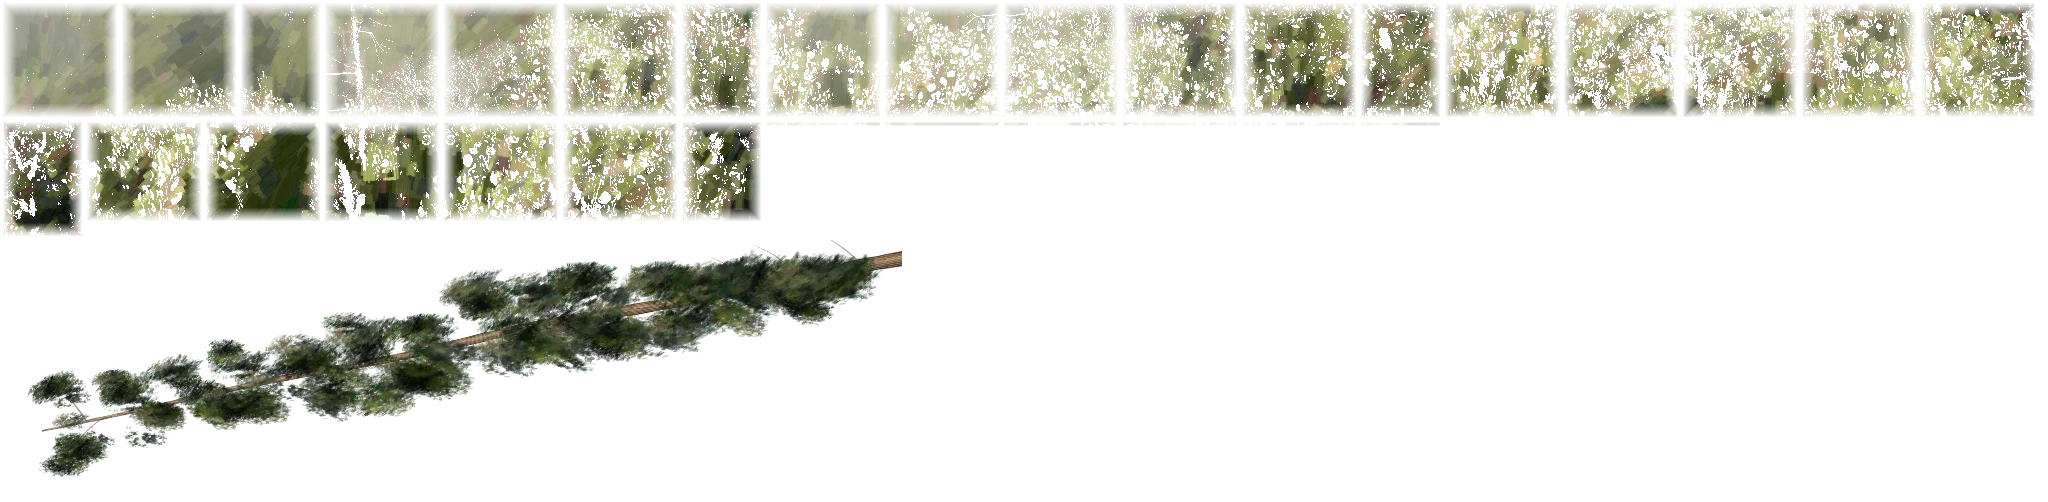
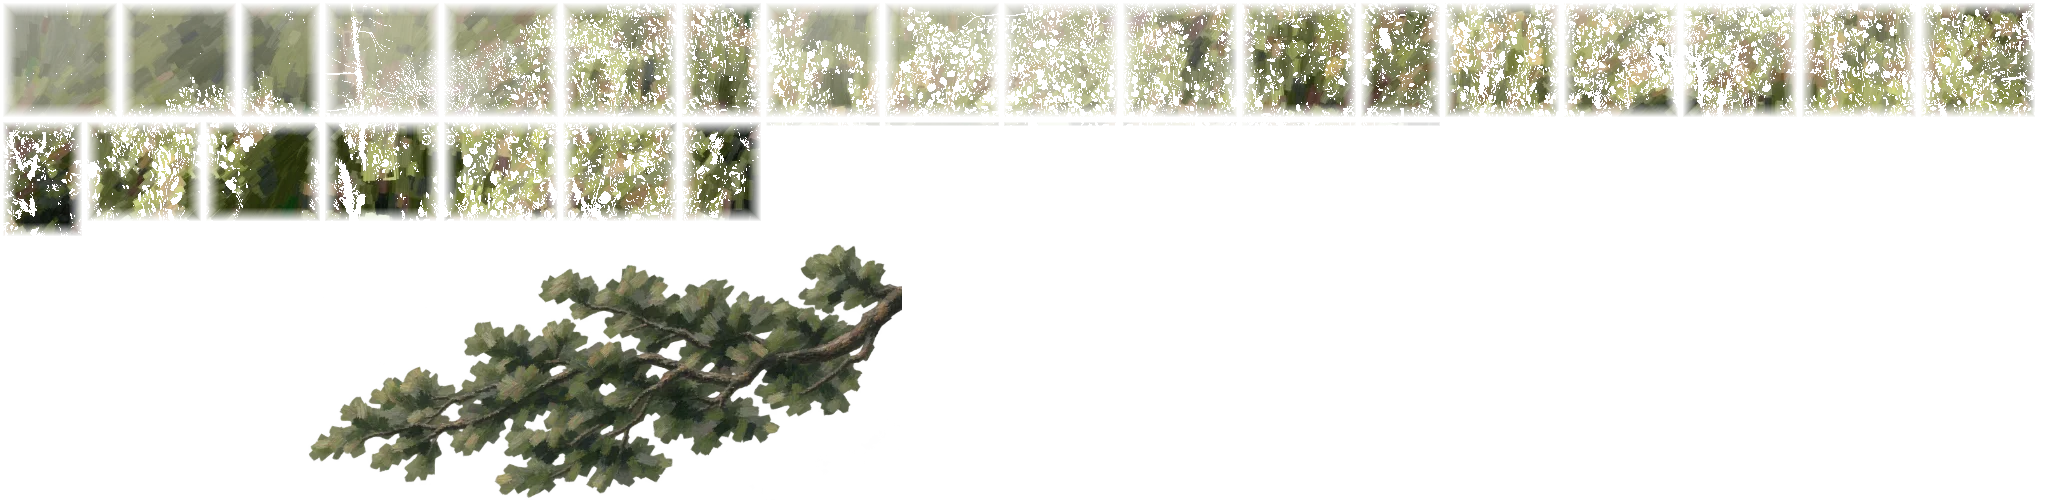
Replace the synthetic upper limb with a coherent painted pine bough

Changed region(s): [[0.0, 0.4781, 0.4375, 0.9861]]

diff --git a/scene.js b/scene.js
@@ -198,7 +198,7 @@
     c.restore();
   }
   const canopy=[],looseLeaves=[],leafSprites=[];
-  let foreground,forestShade;
+  let foreground,forestShade,upperBough;
   function foregroundDepth(x,y){
     const smooth=(a,b,v)=>{const t=clamp((v-a)/(b-a),0,1);return t*t*(3-2*t);};
     const pine=(1-smooth(125,285,x))*smooth(110,300,y);
@@ -270,92 +270,13 @@
   }
   function cacheUpperBranch(foregroundContext){
     const sprite=document.createElement('canvas');sprite.width=900;sprite.height=260;
-    const c=sprite.getContext('2d');seed=8623;
-    // Lift bristled foliage from the painted pine so the new bough shares its pigment and edges.
-    const tufts=[[35,330],[75,390],[25,510],[100,560],[50,620],[80,700]].map(([sx,sy])=>{
-      const tuft=document.createElement('canvas');tuft.width=80;tuft.height=64;
-      const tc=tuft.getContext('2d'),image=p.getImageData(sx,sy,80,64),front=foregroundContext.getImageData(sx,sy,80,64);
-      for(let y=0;y<64;y++)for(let x=0;x<80;x++){
-        const at=(y*80+x)*4,source=((sy+y)*W+sx+x)*4;
-        const r=pixels[source],g=pixels[source+1],b=pixels[source+2];
-        const edge=clamp(1-((x-40)/40)**2-((y-32)/32)**2,0,1)**1.5;
-        const alpha=front.data[at+3]/255;
-        for(let k=0;k<3;k++)image.data[at+k]=image.data[at+k]*(1-alpha)+front.data[at+k]*alpha;
-        image.data[at+3]=Math.round(255*edge*(g>b*.96&&g>r*.88?1:0));
-      }
-      for(let mark=0;mark<2300;mark++){
-        const x=range(4,76),y=range(4,60),at=(Math.floor(y)*80+Math.floor(x))*4;
-        if(rand()>image.data[at+3]/255)continue;
-        const col={r:image.data[at],g:image.data[at+1],b:image.data[at+2]};
-        stroke(tc,x,y,range(2,8),range(.7,2),col,range(-1.7,-.4),.75,2);
-      }
-      return tuft;
-    });
-    const twig=(x,y,endX,endY,width)=>{
-      const angle=Math.atan2(endY-y,endX-x),nx=-Math.sin(angle),ny=Math.cos(angle);
-      const point=t=>{
-        const radius=width*.5*(.12+.88*(1-t)**.85);
-        const bend=-18*t*(1-t)+Math.sin(t*19+x)*width*.12*Math.sin(t*Math.PI);
-        return {x:x+(endX-x)*t,y:y+(endY-y)*t+bend,r:radius};
-      };
-      c.save();c.beginPath();
-      for(const side of [-1,1])for(let i=0;i<=80;i++){
-        const t=side<0?i/80:1-i/80,p=point(t);
-        const edge=p.r*(1+Math.sin(t*173+x)*.09+Math.sin(t*61)*.05);
-        const px=p.x+nx*edge*side,py=p.y+ny*edge*side;
-        if(side<0&&i===0)c.moveTo(px,py);else c.lineTo(px,py);
-      }
-      c.closePath();c.clip();
-      const tones=['#3e3027','#594331','#725039','#876044','#987450','#a68760','#92734e','#7d6041','#66503a'];
-      for(let band=0;band<tones.length;band++){
-        c.fillStyle=tones[band];c.beginPath();
-        for(const side of [-1,1])for(let i=0;i<=80;i++){
-          const p=point(side<0?i/80:1-i/80),across=-1+(band+(side<0?0:1))*2/tones.length;
-          const px=p.x+nx*p.r*across,py=p.y+ny*p.r*across;
-          if(side<0&&i===0)c.moveTo(px,py);else c.lineTo(px,py);
-        }
-        c.closePath();c.fill();
-      }
-      if(width>=3){
-        // Broken grain follows the taper, with short cross cracks between bark scales.
-        for(let i=0;i<240;i++){
-          const t=i/240,p=point(t),across=Math.sin(i*7.31+x)*.87;
-          const light=i%4===0;
-          c.strokeStyle=light?'rgba(204,176,132,.44)':'rgba(42,31,24,.54)';
-          c.lineWidth=light?.55:.45+(i%3)*.18;c.lineCap='round';
-          const length=.004+(i%7)*.0015,q=point(Math.min(1,t+length));
-          c.beginPath();c.moveTo(p.x+nx*p.r*across,p.y+ny*p.r*across);
-          c.lineTo(q.x+nx*q.r*across,q.y+ny*q.r*across);c.stroke();
-          if(i%5===0){
-            c.beginPath();c.moveTo(p.x+nx*p.r*across,p.y+ny*p.r*across);
-            c.lineTo(p.x+nx*p.r*(across+.36)+Math.cos(angle),p.y+ny*p.r*(across+.36)+Math.sin(angle));c.stroke();
-          }
-        }
-        for(const t of [.18,.47,.72]){
-          const p=point(t);c.save();c.translate(p.x,p.y);c.rotate(angle);
-          c.fillStyle='#4f3b2d';c.beginPath();c.ellipse(0,0,p.r*1.25,p.r*.42,0,0,Math.PI*2);c.fill();
-          c.strokeStyle='rgba(193,157,110,.65)';c.lineWidth=.65;
-          c.beginPath();c.ellipse(-.7,-.5,p.r*1.55,p.r*.6,0,.2,Math.PI*1.8);c.stroke();c.restore();
-        }
-      }
-      c.restore();
-    };
-    twig(920,15,40,191,15);
-    for(let i=0;i<27;i++){
-      const x=80+i*30+range(-9,9),t=(920-x)/880;
-      const y=15+176*t-18*t*(1-t)+Math.sin(t*19+920)*1.8*Math.sin(t*Math.PI)+range(-1,1);
-      const direction=i%2?1:-1,tipX=x-range(20,55),tipY=y+direction*range(18,46);
-      twig(x,y,tipX,tipY,1.1+range(0,1.4));
-      for(let spray=0;spray<5;spray++){
-        const q=.25+spray*.18,size=range(.5,.9)*(.65+x/1600);
-        c.save();c.translate(x+(tipX-x)*q+range(-10,10),Math.max(40,y+(tipY-y)*q+range(-5,12)));
-        c.rotate(direction*.2+range(-.3,.3));c.scale(size*1.2,size*.7);
-        c.drawImage(tufts[(i+spray)%tufts.length],-40,-32);c.restore();
-      }
-    }
+    const c=sprite.getContext('2d');
+    // One continuous painted bough preserves connected forks, irregular needle fans, and open gaps.
+    const width=260*upperBough.width/upperBough.height;
+    c.drawImage(upperBough,910-width,0,width,260);
     const cols=90,mask=[],data=c.getImageData(0,0,900,260).data;
     for(let y=0;y<26;y++)for(let x=0;x<cols;x++)mask.push(data[((y*10+5)*900+x*10+5)*4+3]>120?1:0);
-    const branch={sprite,x:700,y:55,near:1,pine:false,upper:true,mask,cols};
+    const branch={sprite,x:700,y:0,near:1,pine:false,upper:true,mask,cols};
     canopy.push(branch);foregroundContext.drawImage(sprite,branch.x,branch.y);
   }
   function branchOccludes(x,y,t){
@@ -438,7 +359,8 @@
     performance.mark('scene-visible');
   }
   async function prepareAuthoring(rebuild=false){
-    const img=await loadImage('assets/yosemite-guide.jpg');
+    const [img,bough]=await Promise.all([loadImage('assets/yosemite-guide.jpg'),loadImage('assets/yosemite-pine-bough.png')]);
+    upperBough=bough;
     sample??=source.getContext('2d',{willReadFrequently:true});
     sample.drawImage(img,0,0,W,H);pixels=sample.getImageData(0,0,W,H).data;
     for(let x=0;x<W;x++){
@@ -458,7 +380,7 @@
     const visible=foregroundGroups.filter(group=>group.canopy.some(patch=>Math.min(right,patch.x+patch.rect[2])-Math.max(left,patch.x)>=12));
     const results=await Promise.allSettled(visible.map(group=>{
       if(!foregroundLoads.has(group.atlas))foregroundLoads.set(group.atlas,(async()=>{
-        const url=new URL(group.atlas,foregroundManifest);url.searchParams.set('v','brush-1');
+        const url=new URL(group.atlas,foregroundManifest);url.searchParams.set('v','pine-2');
         const atlas=await loadImage(url.href);
         canopy.push(...group.canopy.map(record=>({...record,sprite:{image:atlas,rect:record.rect,width:record.rect[2],height:record.rect[3]}})));
         fit();
@@ -470,7 +392,7 @@
   }
   async function loadLiveAssets(){
     try{
-      const url=new URL('assets/yosemite-live-brush1.json',location.href);
+      const url=new URL('assets/yosemite-live-brush1.json?v=pine-2',location.href);
       const response=await fetch(url,{priority:'low'});if(!response.ok)throw new Error('Live manifest unavailable');
       const data=await response.json();if(data.version!==2||data.skyline.length!==W)throw new Error('Invalid scene assets');
       const atlas=await loadImage(new URL(data.atlas,url).href);
@@ -486,7 +408,7 @@
   }
   async function startScene(){
     if(new URLSearchParams(location.search).has('bake')){await prepareAuthoring();return;}
-    try{showPainting(await loadImage('assets/yosemite-display-brush1.webp?v=brush-1','high'));}
+    try{showPainting(await loadImage('assets/yosemite-display-brush1.webp?v=pine-2','high'));}
     catch{try{showPainting(await loadImage('assets/yosemite-terrain-brush1.webp','high'));}catch{document.documentElement.dataset.sceneReady='error';return;}}
     // Yield a frame so the finished painting is visible before preparing live layers.
     requestAnimationFrame(()=>loadLiveAssets());

diff --git a/index.html b/index.html
@@ -7,7 +7,7 @@
   <meta name="description" content="Yosemite Valley, painted and alive. A study of granite, wind, clouds, and falling water.">
   <title>Yash Kalani</title>
   <script>try{if(sessionStorage.getItem('postcard-cloud-arrival')===location.pathname){document.documentElement.classList.add('cloud-arrival');window.cloudFallback=setTimeout(()=>document.documentElement.classList.remove('cloud-arrival'),3000)}}catch{}</script>
-  <link rel="preload" as="image" href="assets/yosemite-display-brush1.webp?v=brush-1" fetchpriority="high">
+  <link rel="preload" as="image" href="assets/yosemite-display-brush1.webp?v=pine-2" fetchpriority="high">
   <link rel="stylesheet" href="style.css">
   <link rel="stylesheet" href="cloud-transition.css">
   <script src="scene.js" defer></script>

diff --git a/landscapes/yosemite.md b/landscapes/yosemite.md
@@ -53,10 +53,10 @@ Portrait focus was adjusted to58.5% across the logical canvas so Bridalveil Fall
 
 Home uses matching `p4` display, live manifest, and foreground atlases. A tapered pine branch enters from the upper right, with individually painted needle sprays and a subtle shared-wind sway. Its cached mask participates in the bird visibility measurement. Moving bush cutouts and the static foreground share lifted warm greens and stronger local contrast, preserving the original foliage silhouettes.
 
-The upper bough samples pigment from the existing painted pine and its foreground grade. Dense, tapered sprays use fine bristle marks, dark bark, and broken edges to match that tree rather than separate star-shaped needle clusters. Keep the foliage within the sprite bounds and regenerate its bird-occlusion mask when rebaking.
+The upper bough uses the transparent painted source `assets/yosemite-pine-bough.png`, with connected irregular forks, coarse layered pine fans, open gaps, and a muted palette referenced from the existing pine. Keep its aspect ratio, modest scale, and attachment beyond the right edge; regenerate the bird-occlusion mask when rebaking. Normal visits use the baked atlas and do not load this authoring source.
 
 Use `node scripts/bake-assets.cjs --foreground-only` to regenerate these layers from the existing terrain painting without repainting the granite. The normal bake command still rebuilds the complete painting. Verify desktop, portrait, wide crops, motion, and bird occupancy after changing branch geometry.
 
 Background foliage receives a cool transparent glaze that fades out toward the near trees. Bake it into the display and canopy layers; retain the ungraded terrain cache so repeated bakes cannot compound the darkening. Preserve the warm foreground highlights and the granite and sky values.
 
-The upper limb uses a continuous irregular taper, shaded bark grain, small knots, and attached tapered twigs. For wood-only refinements, follow the focused desktop/mobile Playwright workflow in AGENTS.md.
+For branch refinements, follow the focused desktop/mobile Playwright workflow in AGENTS.md and inspect the complete composition as well as the branch close-up.

diff --git a/assets/CREDITS.md b/assets/CREDITS.md
@@ -9,5 +9,7 @@ The photograph is not displayed on the page. yosemite-guide.jpg supplies materia
 
 The reference guide is now used only for local authoring and is excluded from deployment. The display and live atlases are generated from the original painted canvas; normal visits never download the guide.
 
+`yosemite-pine-bough.png` is an AI-generated transparent painted bough, created with OpenAI ImageGen using the existing Yosemite painting as its style reference. It replaces the procedural upper branch. The authoring source is excluded from deployment; its painted pixels are baked into the display and foreground atlas.
+
 
 Current expressive-paint edition: `yosemite-terrain-brush1.webp` and `yosemite-display-brush1.webp`, with the matching `*-brush1` atlases, reconstruct the reference as broad visible brush marks and simplified pigment planes. The CC0 source and its geography remain unchanged. The older dense pixel-detail coats are superseded by the shared `scenes/brush-painting.js` renderer.
